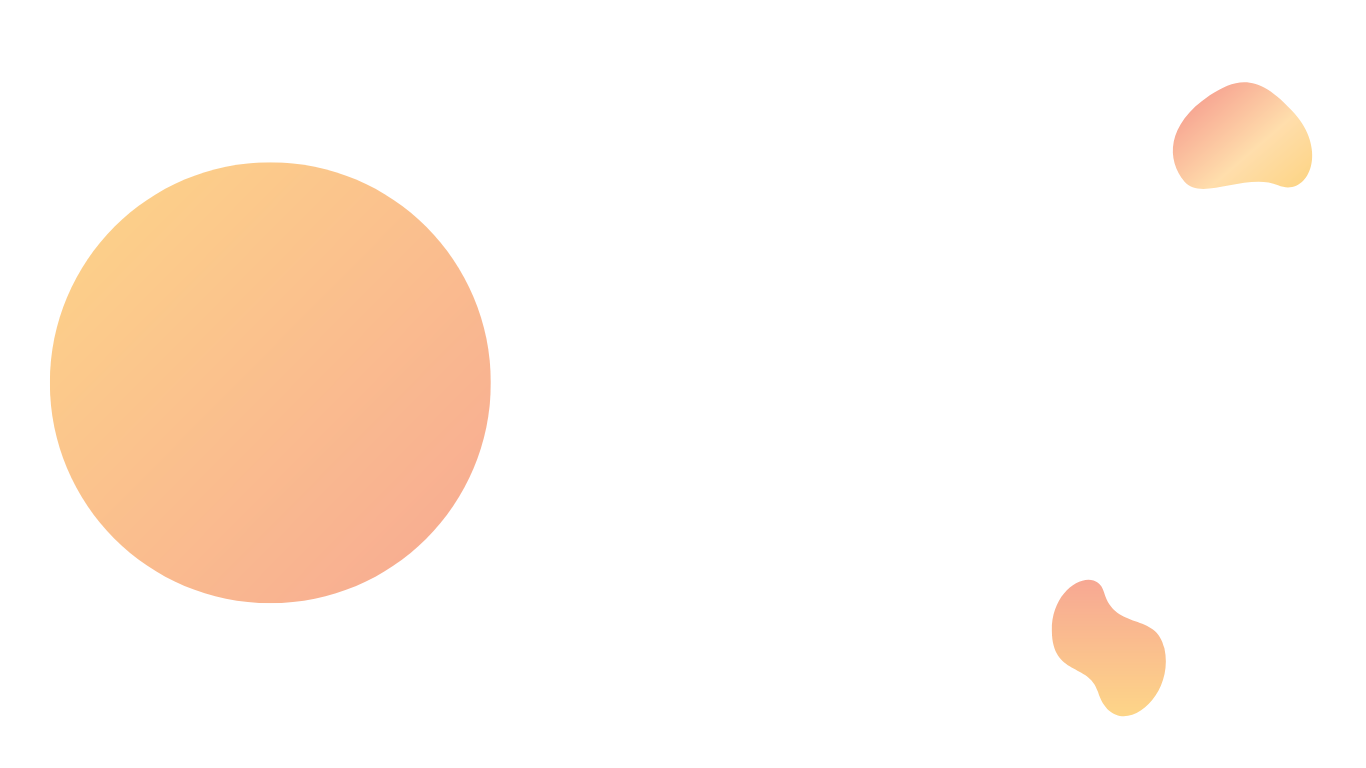
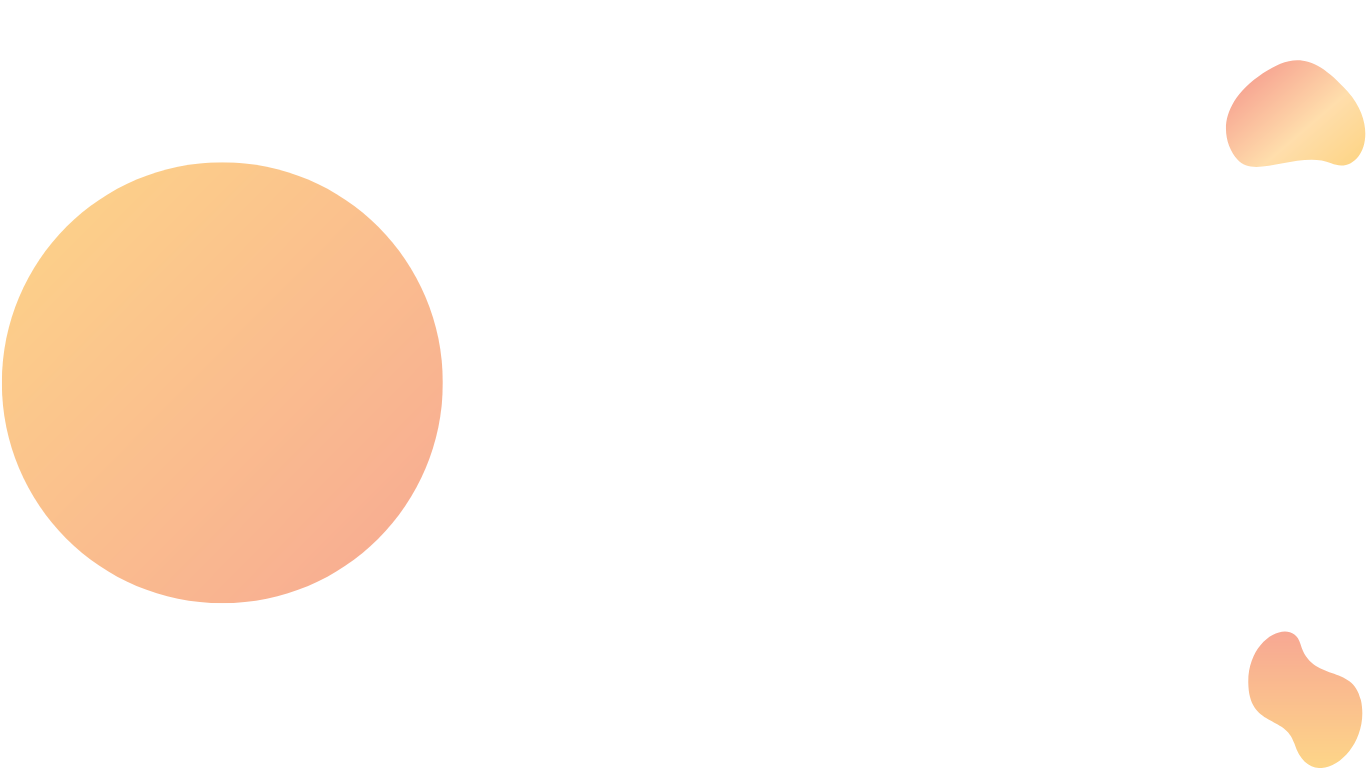
style: Change Background image

diff --git a/static/styleIndex.css b/static/styleIndex.css
@@ -16,7 +16,7 @@ main {
     width: 100%;
     background: url("images/background.png") no-repeat;
     background-position: center;
-    background-size:auto;
+    background-size:co;
 }
 
 ::selection {
